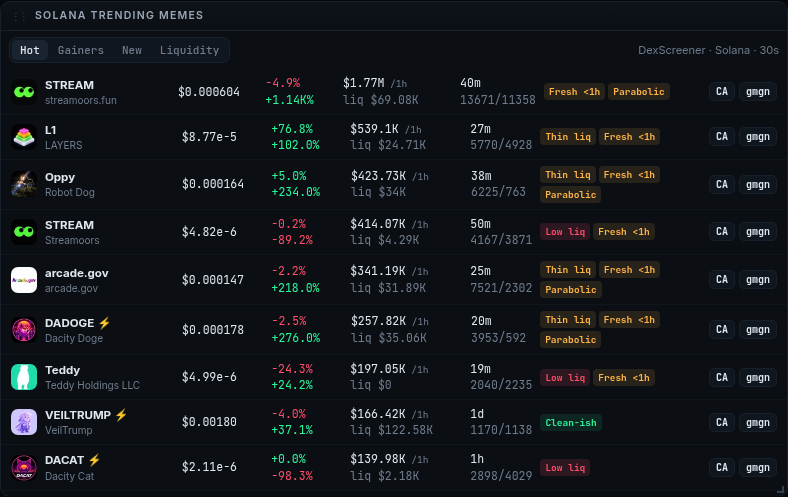
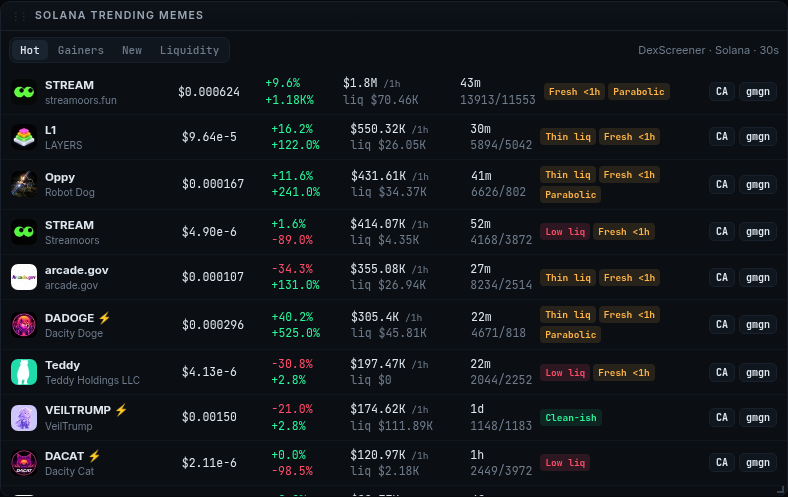
README and screenshots

diff --git a/README.md b/README.md
@@ -1,0 +1,35 @@
+# Sendit Terminal
+
+A pro, degen-native crypto trading terminal in the browser. It has live Binance prices, TradingView candlesticks, order book depth, a trades tape, Solana trending memes with risk flags, price alerts and paper trading. Everything runs client-side with no API keys.
+
+**Live:** https://xdi8blox.github.io/sendit-terminal/
+
+![desktop](screenshots/desktop.png)
+![chart](screenshots/chart.png)
+![memes](screenshots/memes.png)
+<img src="screenshots/mobile.png" width="320" alt="mobile">
+
+## Features
+- **Live Binance feed:** combined websocket streams (kline, miniTicker, aggTrade, depth) with auto-reconnect. If the socket can't connect or a stream goes silent, the app drops to a clearly badged **SIM** mode.
+- **Chart:** lightweight-charts candlesticks with 1m–1d timeframes, EMA 9/21, VWAP, RSI pane, volume, and trade markers.
+- **Order book depth and live trades tape.**
+- **Watchlist with sparklines.**
+- **Solana trending memes:** from DexScreener, with risk flags (thin liquidity, fresh pair, parabolic, low liquidity) plus CA copy and gmgn links.
+- **Price alerts:** with browser notifications.
+- **Paper trading:** $10k start, 0.1% fee, PnL and history, saved in localStorage.
+- **Layout:** draggable, resizable panels saved locally.
+- **Hotkeys:** `/` search, `1–6` timeframes, `B`/`S` buy/sell, `E`/`V`/`R` indicators, `↑↓` watchlist, `Shift+L` reset layout, `?` help.
+
+## Data sources (keyless)
+Binance public REST and WS (with data-api/data-stream.binance.vision fallbacks) and DexScreener public API.
+
+Charts by [TradingView Lightweight Charts](https://www.tradingview.com/lightweight-charts/).
+
+## Dev
+```bash
+npm i && npm run dev
+npm run build
+```
+
+## License
+MIT
